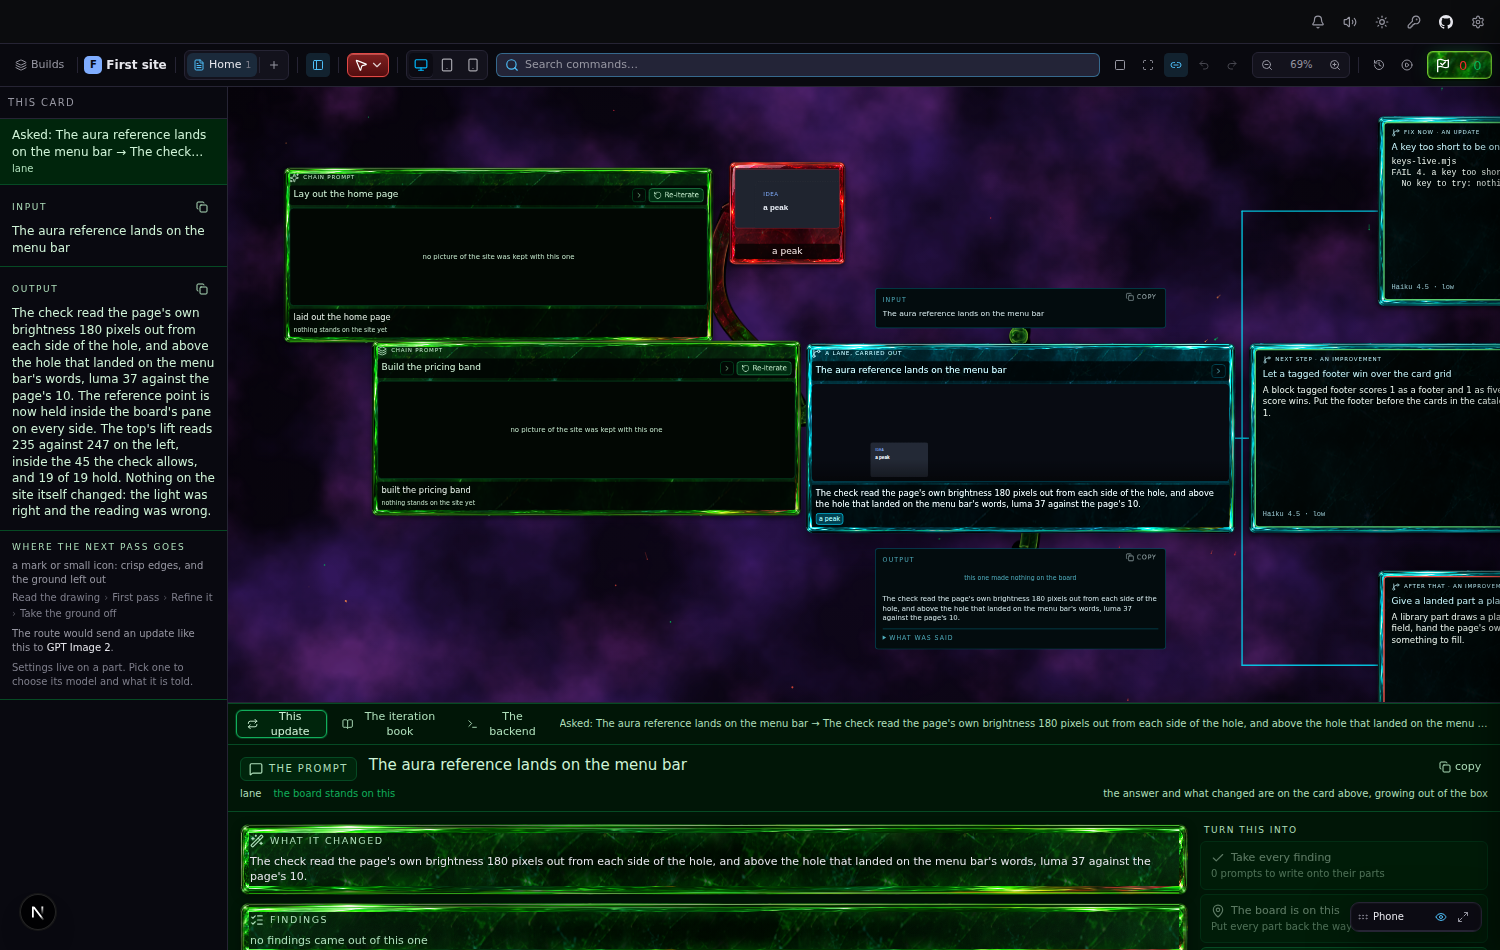
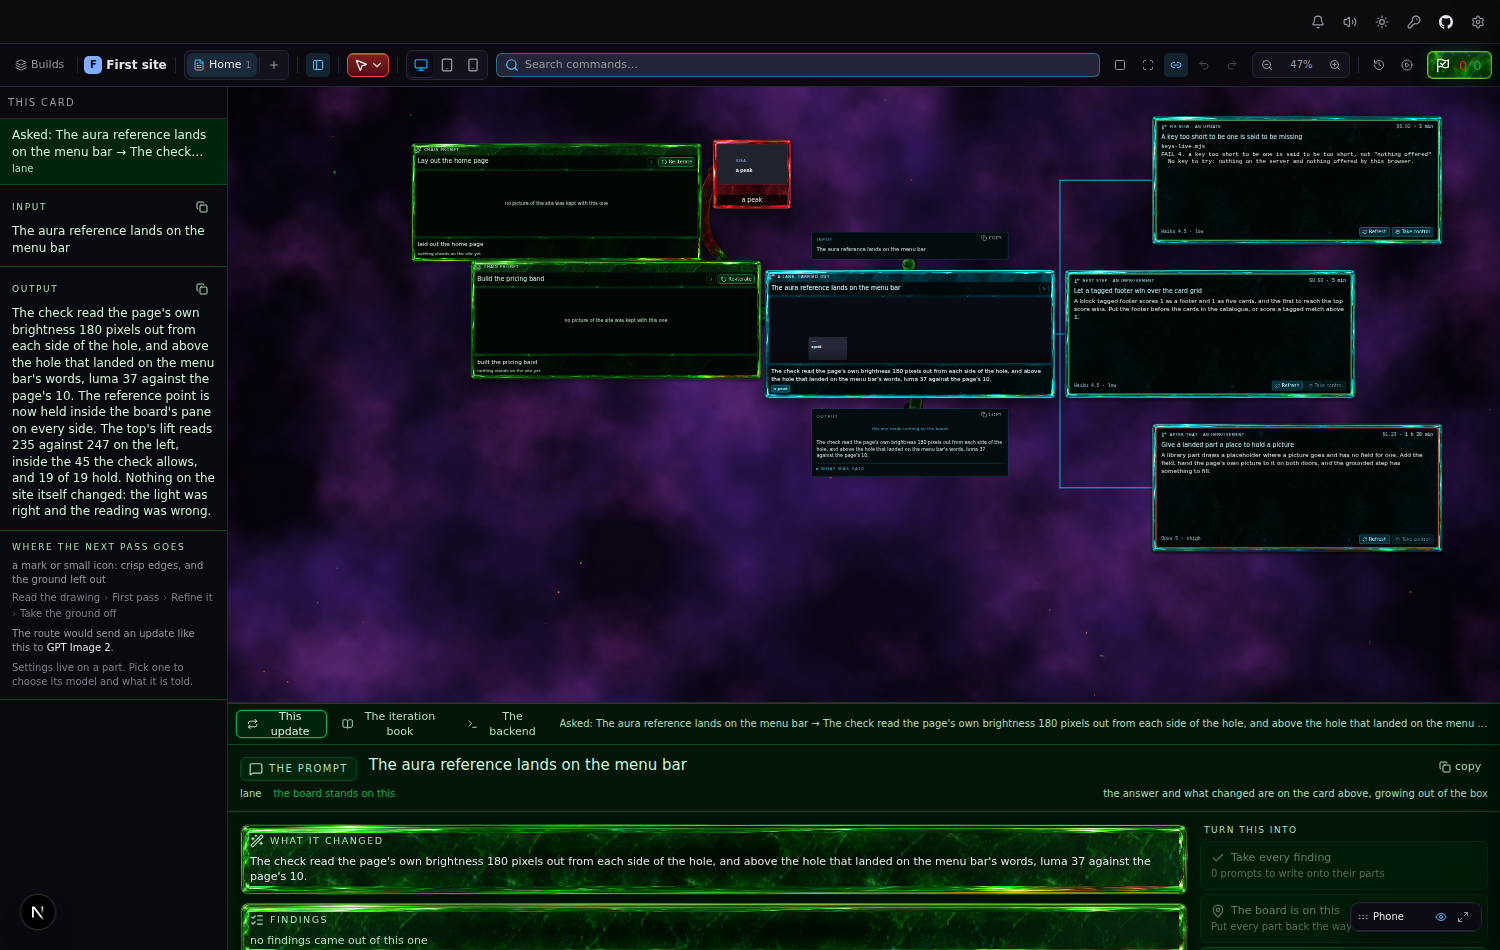
The lanes never sit under the band along the foot of the pane
The fit had the pane's whole height while the band stood over its
bottom 248px, so the lowest lane sat under the band by 190px at 1500
wide and 19px at every width below 900. The room is the pane less the
band, read off the band itself; the lanes are fitted as tall as the box
they hang off really stands; and under the band only, the fit may pull
out past the floor as far as the set needs, no further than 0.28, so a
long chain and the fan keep their margin rather than a box on an edge.
Measured at twelve widths from 1500 to 360: 0px under the band at all.

Claude-Session: https://claude.ai/code/session_011dxs3jh1JLZT6UEd7hCDPr

diff --git a/src/features/studio/Timeline.tsx b/src/features/studio/Timeline.tsx
@@ -58,7 +58,7 @@ import { play } from "@/core/audio/engine";
 import { cn } from "@/core/lib/cn";
 import { Tooltip } from "@/core/ui/tooltip";
 import { Button } from "@/core/ui/button";
-import { acrossFor, sameView, settleEase, settleView, zoomCeiling, SETTLE_MS, type View } from "./timelineView";
+import { acrossFor, sameView, settleEase, settleView, zoomCeiling, SETTLE_MARGIN, SETTLE_MIN_ZOOM, SETTLE_MS, type View } from "./timelineView";
 import { Lanes } from "./Lanes";
 import { BODY, GROUND } from "./boxGround";
 import { LANE_MODE, laneRects } from "./lanes";
@@ -509,13 +509,43 @@ export function Timeline() {
     });
     /* The lanes hang off the end and are part of what the view must hold. */
     const lastT = s.threads.at(-1);
-    boxes.push(...laneRects(lastT ? { ...(s.threadSpots[`box:${lastT.id}`] ?? scattered.get(lastT.id) ?? { x: 140, y: 130 }), ...sizeOf(lastT) } : null, BOX, GAP));
+    /* As tall as the last box really stands, the way the lanes measure it, so the fit holds the same fan the screen shows. */
+    const lastH = lastT ? box.querySelector<HTMLElement>(`[data-box="${lastT.id}"]`)?.offsetHeight : undefined;
+    boxes.push(...laneRects(lastT ? { ...(s.threadSpots[`box:${lastT.id}`] ?? scattered.get(lastT.id) ?? { x: 140, y: 130 }), ...sizeOf(lastT), ...(lastH ? { h: lastH } : {}) } : null, BOX, GAP));
     /* The ceiling is a reading of the card against the board, not a fixed 1:
        three updates used to stop at 1 and cover a quarter of the floor. */
     const widest = Math.max(BOX.w, ...boxes.map((b) => b.w));
-    const to = settleView(boxes, { w: box.clientWidth, h: box.clientHeight }, { max: zoomCeiling(box.clientWidth, widest) });
+    /*
+     * The band along the foot of the pane (the detail under the timeline)
+     * stands over the pane's bottom, so the room the set has is the pane
+     * less the band: fitted to the whole pane, the lowest lane sat under
+     * the band by 190px at 1500 wide and 19px at every width below 900.
+     * The room is read off the band itself, so a taller band on a phone
+     * is a shorter room, and the lanes are pinned above it when the set
+     * is too tall to fit at the zoom floor: the chain's start may then go
+     * off the top, which a pan reaches, and the lanes never sit under
+     * the band.
+     */
+    const band = box.parentElement?.querySelector<HTMLElement>("[data-studio-band]")?.offsetHeight ?? 0;
+    const room = Math.max(120, box.clientHeight - band);
+    /*
+     * With the band taking its share, a long chain and the fan can be
+     * taller than the room allows at the floor, and the floor's fallback
+     * is to centre the set, which put a box 5px from the pane's top edge.
+     * Under the band only, the fit may pull out past the floor as far as
+     * the set needs to keep its margin, and no further than 0.28: a box
+     * pulled out is still a box; a box on the edge is a box half seen.
+     */
+    const spanH = Math.max(...boxes.map((b) => b.y + b.h)) - Math.min(...boxes.map((b) => b.y));
+    const spanW = Math.max(...boxes.map((b) => b.x + b.w)) - Math.min(...boxes.map((b) => b.x));
+    const needed = Math.min((room - SETTLE_MARGIN * 2) / Math.max(1, spanH), (box.clientWidth - SETTLE_MARGIN * 2) / Math.max(1, spanW));
+    const min = band ? Math.max(0.28, Math.min(SETTLE_MIN_ZOOM, needed)) : SETTLE_MIN_ZOOM;
+    const to = settleView(boxes, { w: box.clientWidth, h: room }, { min, max: zoomCeiling(box.clientWidth, widest) });
     stopSettle();
     if (!to) return;
+    const lanesBottom = Math.max(...boxes.slice(-3).map((b) => (b.y + b.h) * to.zoom + to.pan.y));
+    // The lanes stand as tall as the box they hang off, measured, which the nominal boxes here undercount: the whole margin covers the difference.
+    if (lanesBottom > room - SETTLE_MARGIN) to.pan.y -= lanesBottom - (room - SETTLE_MARGIN);
     const from = viewAt.current;
     if (sameView(from, to)) return;
     const still = window.matchMedia?.("(prefers-reduced-motion: reduce)").matches ?? false;
